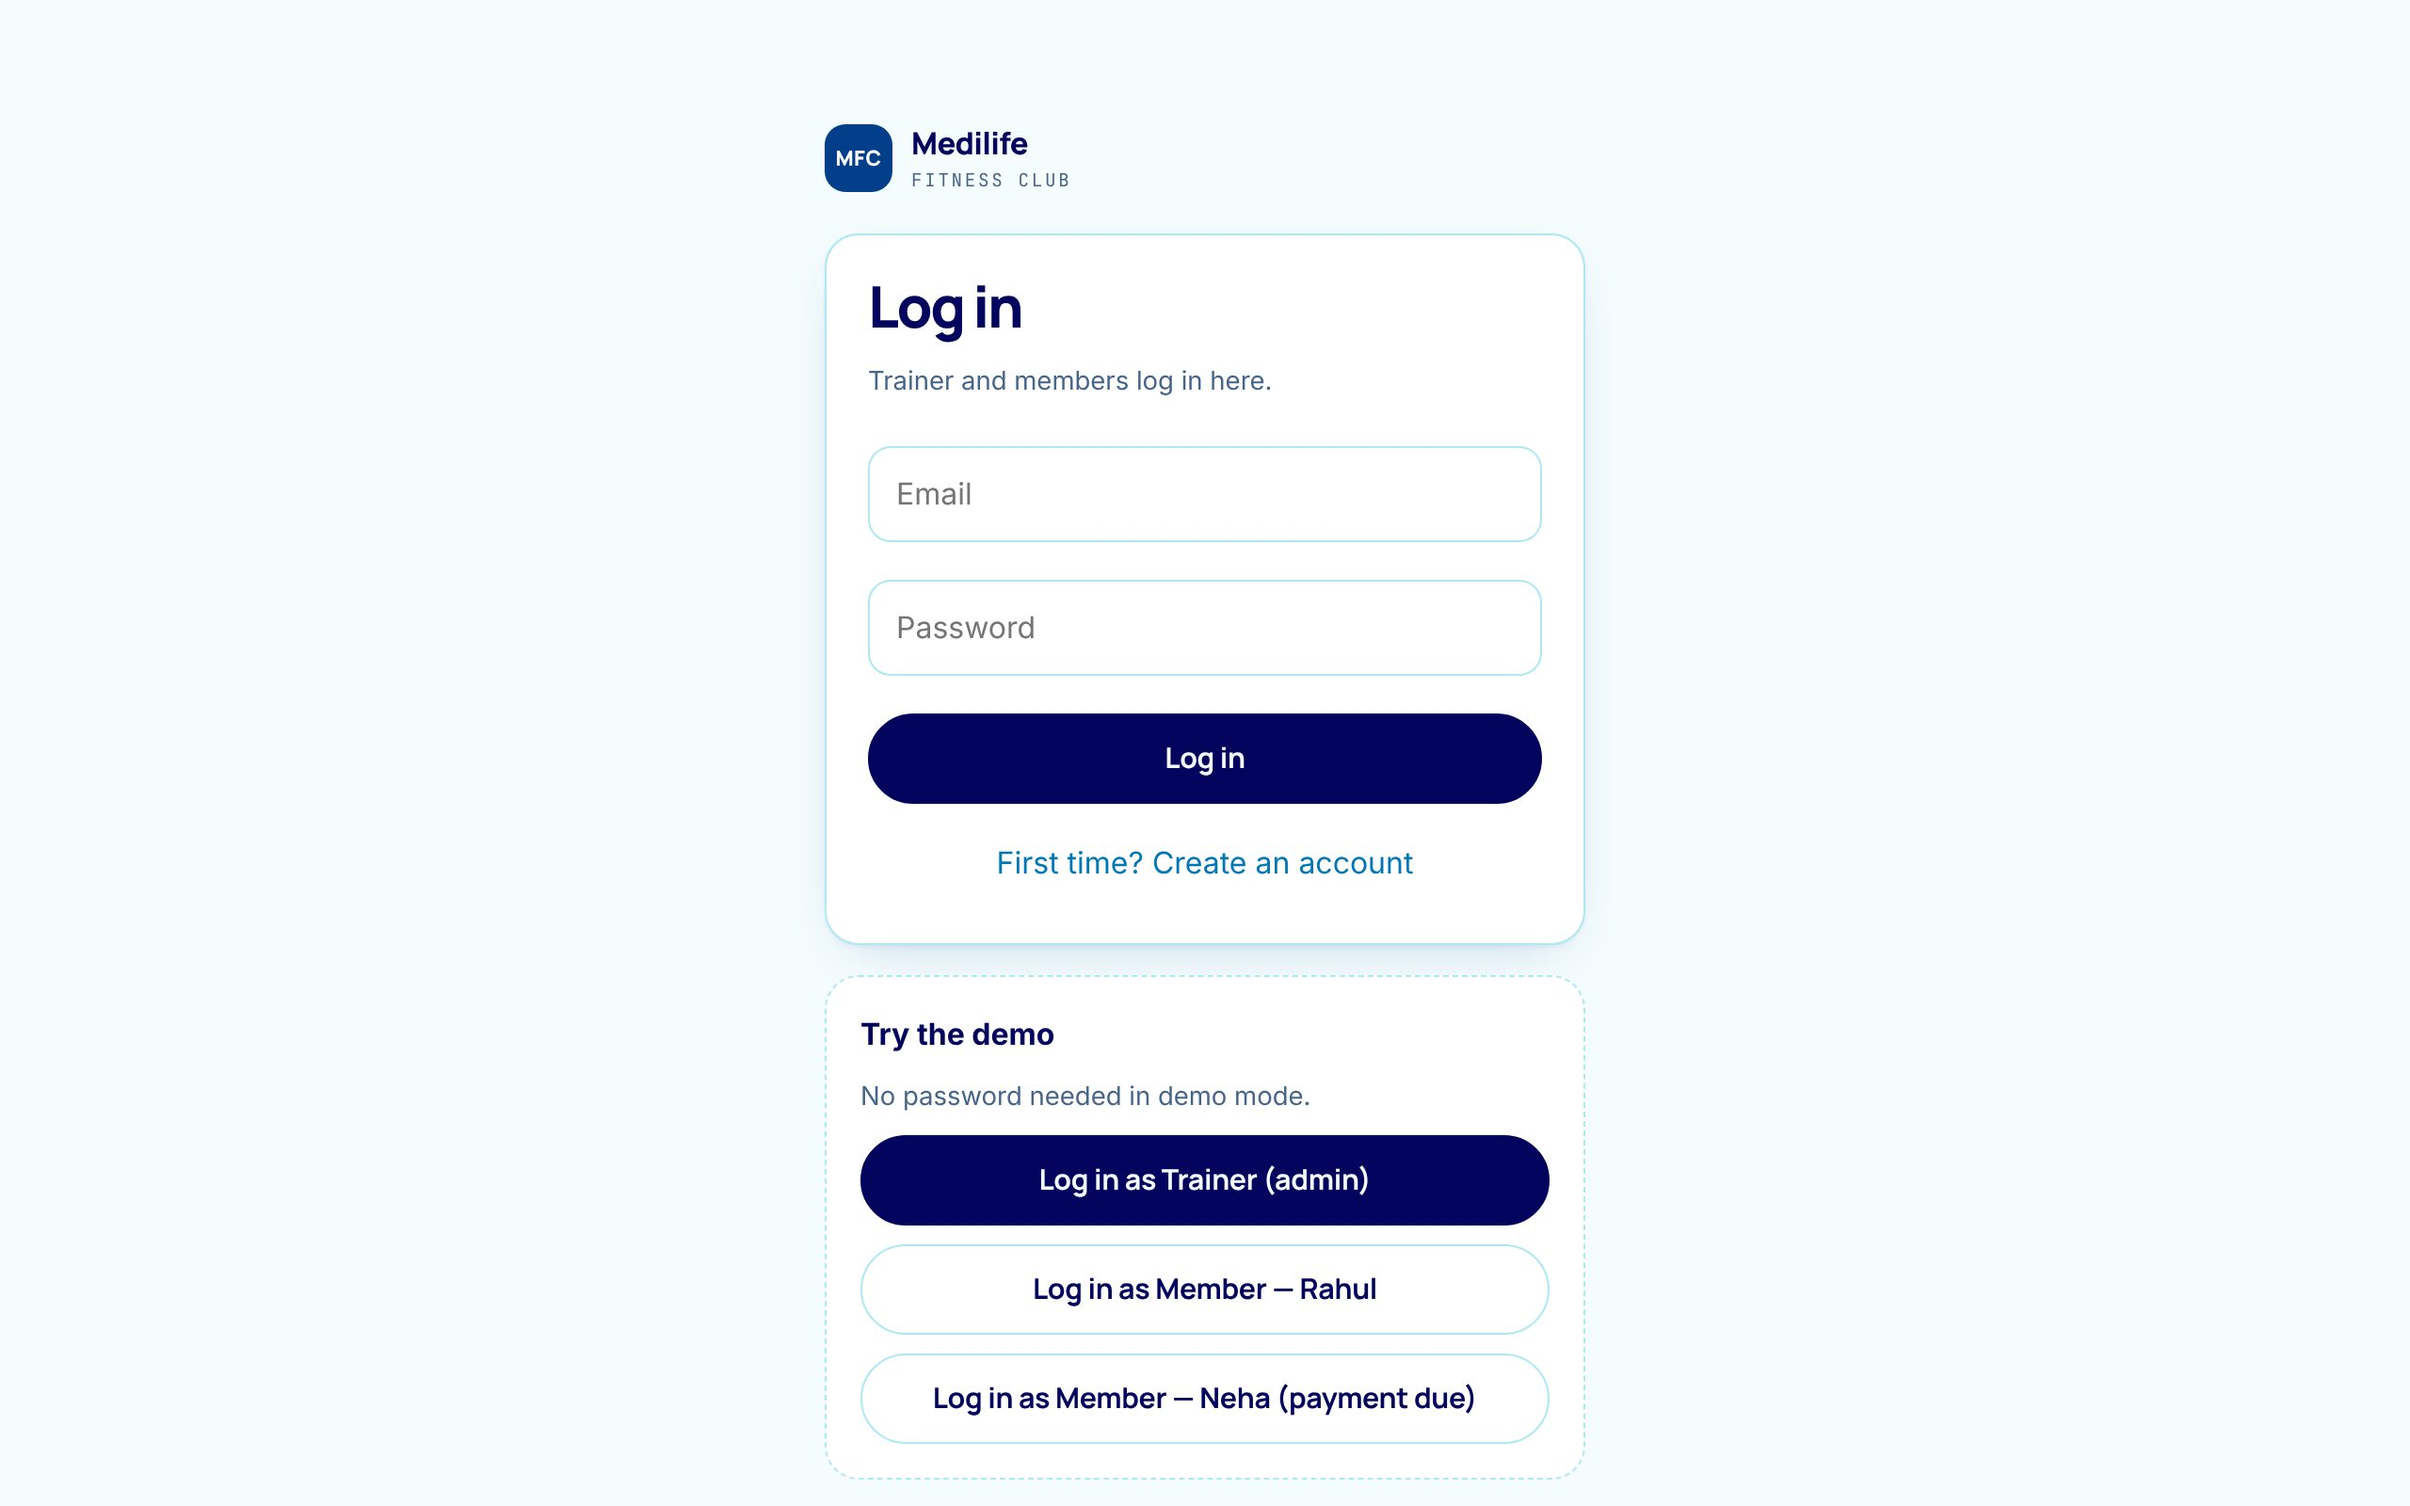
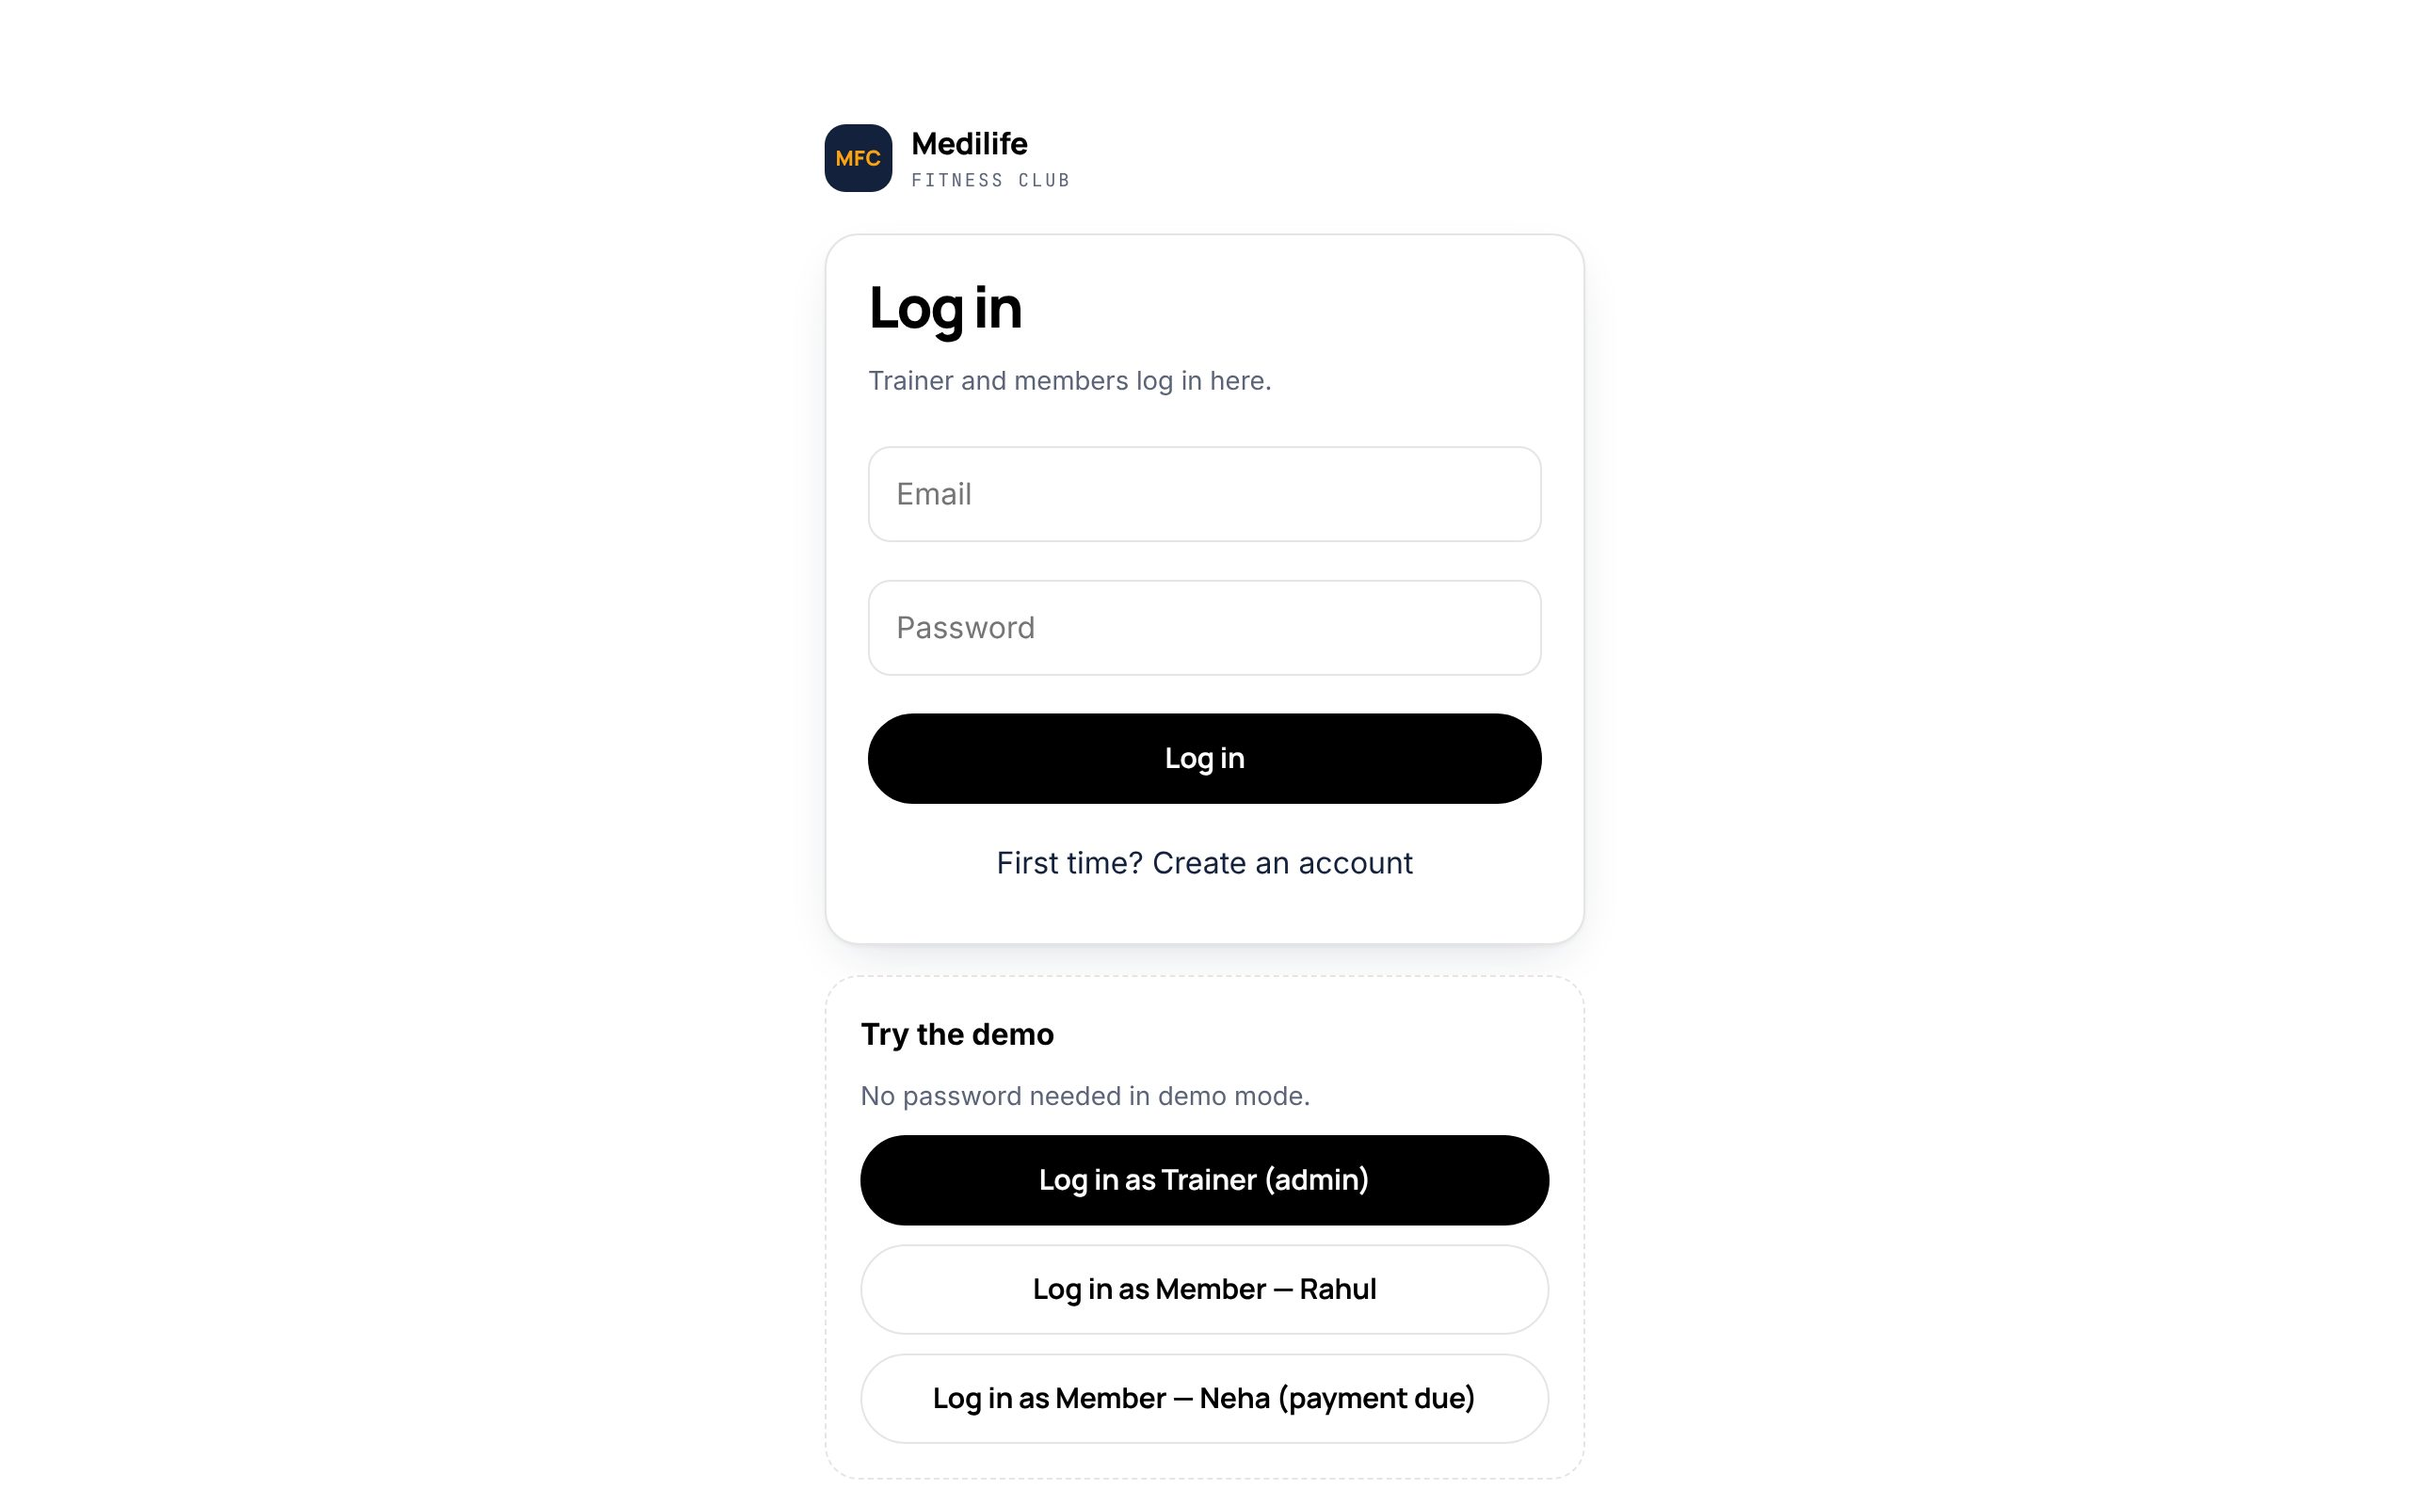
Slides: add new login screenshot to the 'How it is built' slide
Claude-Session: https://claude.ai/code/session_01TbuzzxNN4QYkeqHvKyEuVK

diff --git a/demo-slides/11-tech.html b/demo-slides/11-tech.html
@@ -19,10 +19,13 @@
       <h2>Built on dependable, low-cost tools</h2>
       <ul class="points"><li><strong>Next.js</strong> website and app, mobile-first and installable (PWA).</li><li><strong>Supabase</strong> (Postgres database + logins), Mumbai region.</li><li><strong>Database security rules</strong>: a member can only ever see their own data, and only the trainer can change payments.</li><li><strong>Nightly backup</strong> to GitHub, free.</li><li><strong>India network fix</strong>: Supabase was blocked on some ISPs in 2026, so the app can run through the gym’s own domain.</li></ul>
     </div>
-    <div class="cards" style="grid-template-columns:1fr">
-      <div class="card"><div class="who">Member logins</div><p>Trainer saves the member’s email → member signs up with it → their plan appears automatically. Email confirmation proves it is really them.</p></div>
-      <div class="card"><div class="who">Demo mode</div><p>Without a database the app runs on sample data in the browser, which is how this demo works offline.</p></div>
-      <div class="card"><div class="who">Owned by the gym</div><p>All data can be exported any time. No lock-in to a gym-software vendor.</p></div>
+    <div class="login-pair">
+      <figure><div class="phone"><img src="assets/login-m.jpg" alt="Login page on a phone" loading="lazy"></div><figcaption>One login page for trainer and members</figcaption></figure>
+      <div class="cards" style="grid-template-columns:1fr;align-content:center">
+        <div class="card"><div class="who">Member logins</div><p>Trainer saves the member’s email → member signs up with it → their plan appears automatically. Email confirmation proves it is really them.</p></div>
+        <div class="card"><div class="who">Demo mode</div><p>Without a database the app runs on sample data in the browser, which is how this demo works offline.</p></div>
+        <div class="card"><div class="who">Owned by the gym</div><p>All data can be exported any time. No lock-in to a gym-software vendor.</p></div>
+      </div>
     </div>
   </section>
 </main>

diff --git a/demo-slides/slides.css b/demo-slides/slides.css
@@ -188,3 +188,6 @@ table.compact .tag { font-size: 0.9cqw; }
 .split .phones { gap: 1.4cqw; }
 .split .phones .phone { width: 14.5cqw; }
 @media (max-width: 760px) { .split .phones .phone { width: 46%; } }
+.login-pair { display: grid; grid-template-columns: auto 1fr; gap: 1.8cqw; align-items: center; min-width: 0; }
+.login-pair .phone { width: 15cqw; }
+@media (max-width: 760px) { .login-pair { grid-template-columns: 1fr; } .login-pair .phone { width: 60%; margin: 0 auto; } }
